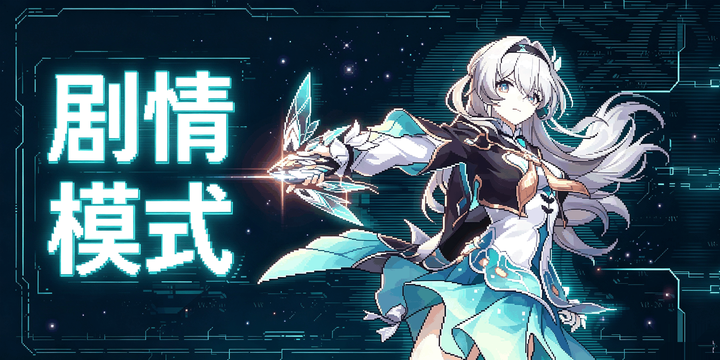
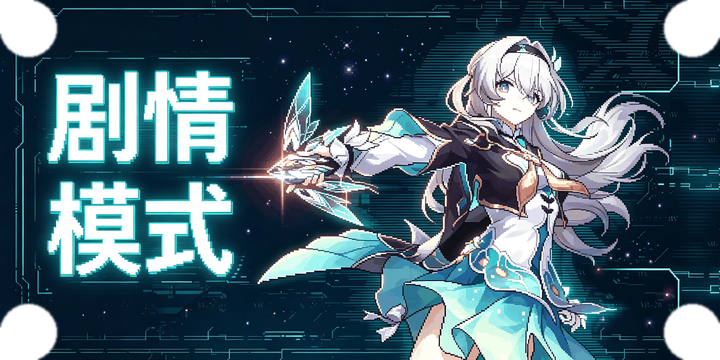
轮播图圆角做进图片文件本身（安卓 WebView 兼容）
- 问题：CSS border-radius 在部分安卓 WebView 对 img 不裁剪（computed 显示 14px 但渲染直角）
- 修复：PIL 直接给两张轮播图四角做透明圆角（r=28px@720px 图），
  任何端显示一致，不依赖 CSS；像素画风格保留
- CSS 还原不裁切（图片已自带圆角，避免双重效果）
- 真机识图验证：剧情模式/春日手信四角均圆角、图片清晰、滑动正常

diff --git a/app/static/style.css b/app/static/style.css
@@ -631,8 +631,7 @@ body {
     object-fit: contain; flex-shrink: 0;
     cursor: pointer;   /* 点击轮播图进入对应功能 */
     user-select: none; -webkit-user-drag: none;
-    /* 圆角做在图片自身（像素画四角柔和），不做容器裁切 */
-    border-radius: 14px;
+    /* 圆角已直接做进图片文件（四角透明），CSS 不再重复裁切 */
 }
 .carousel-dots {
     position: absolute; bottom: 8px; left: 0; right: 0;
